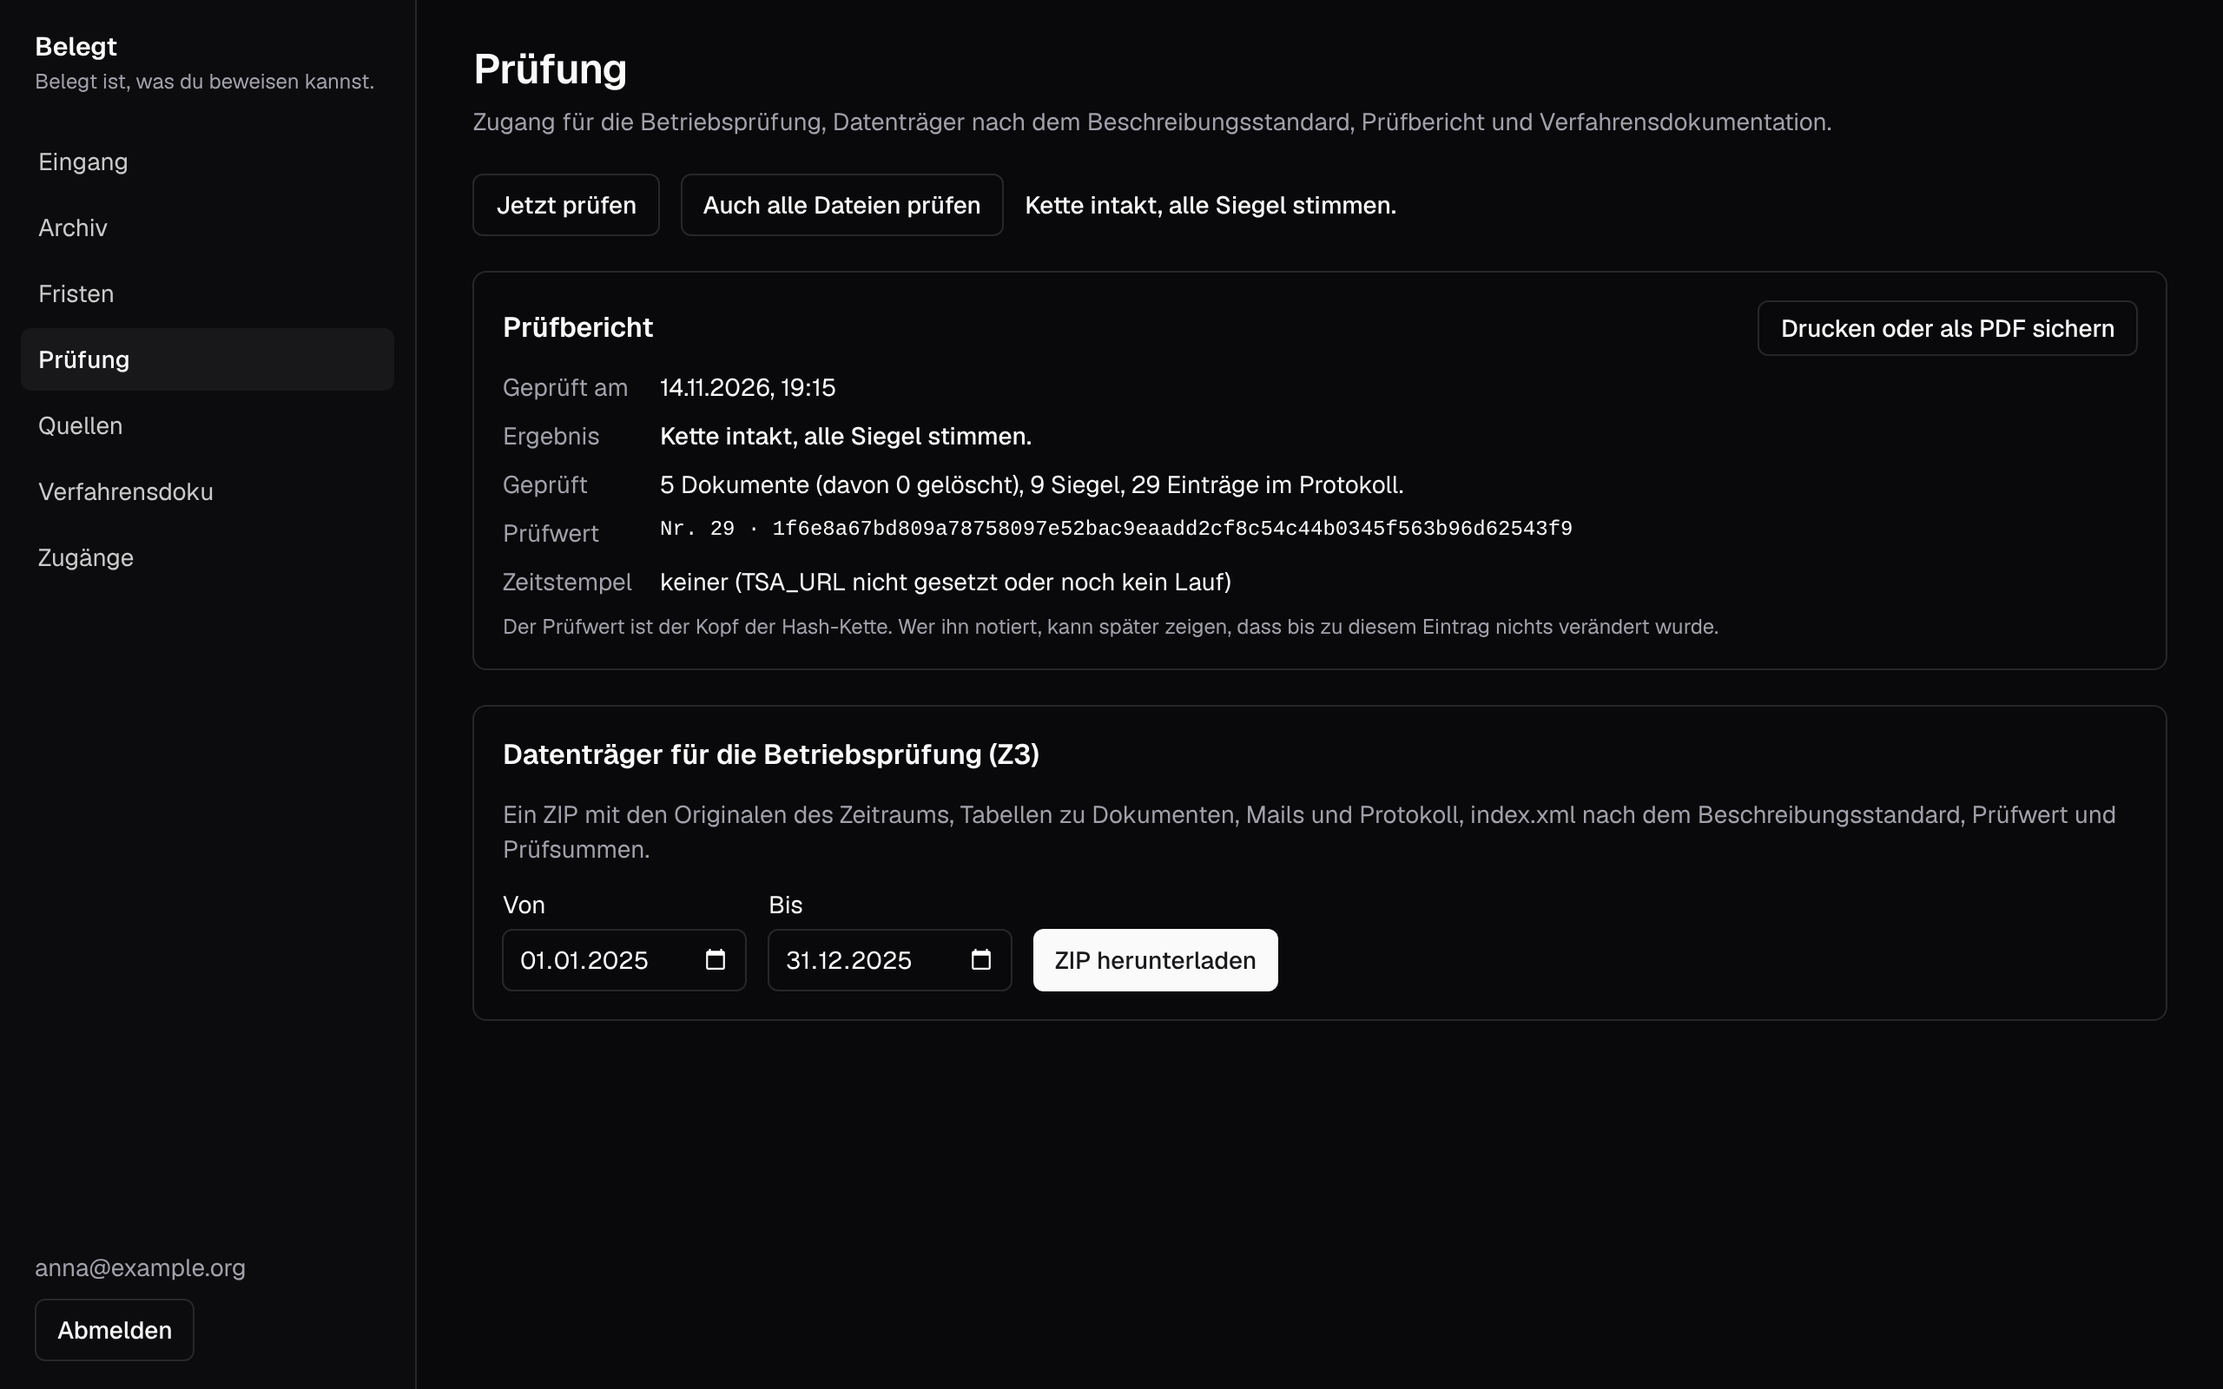
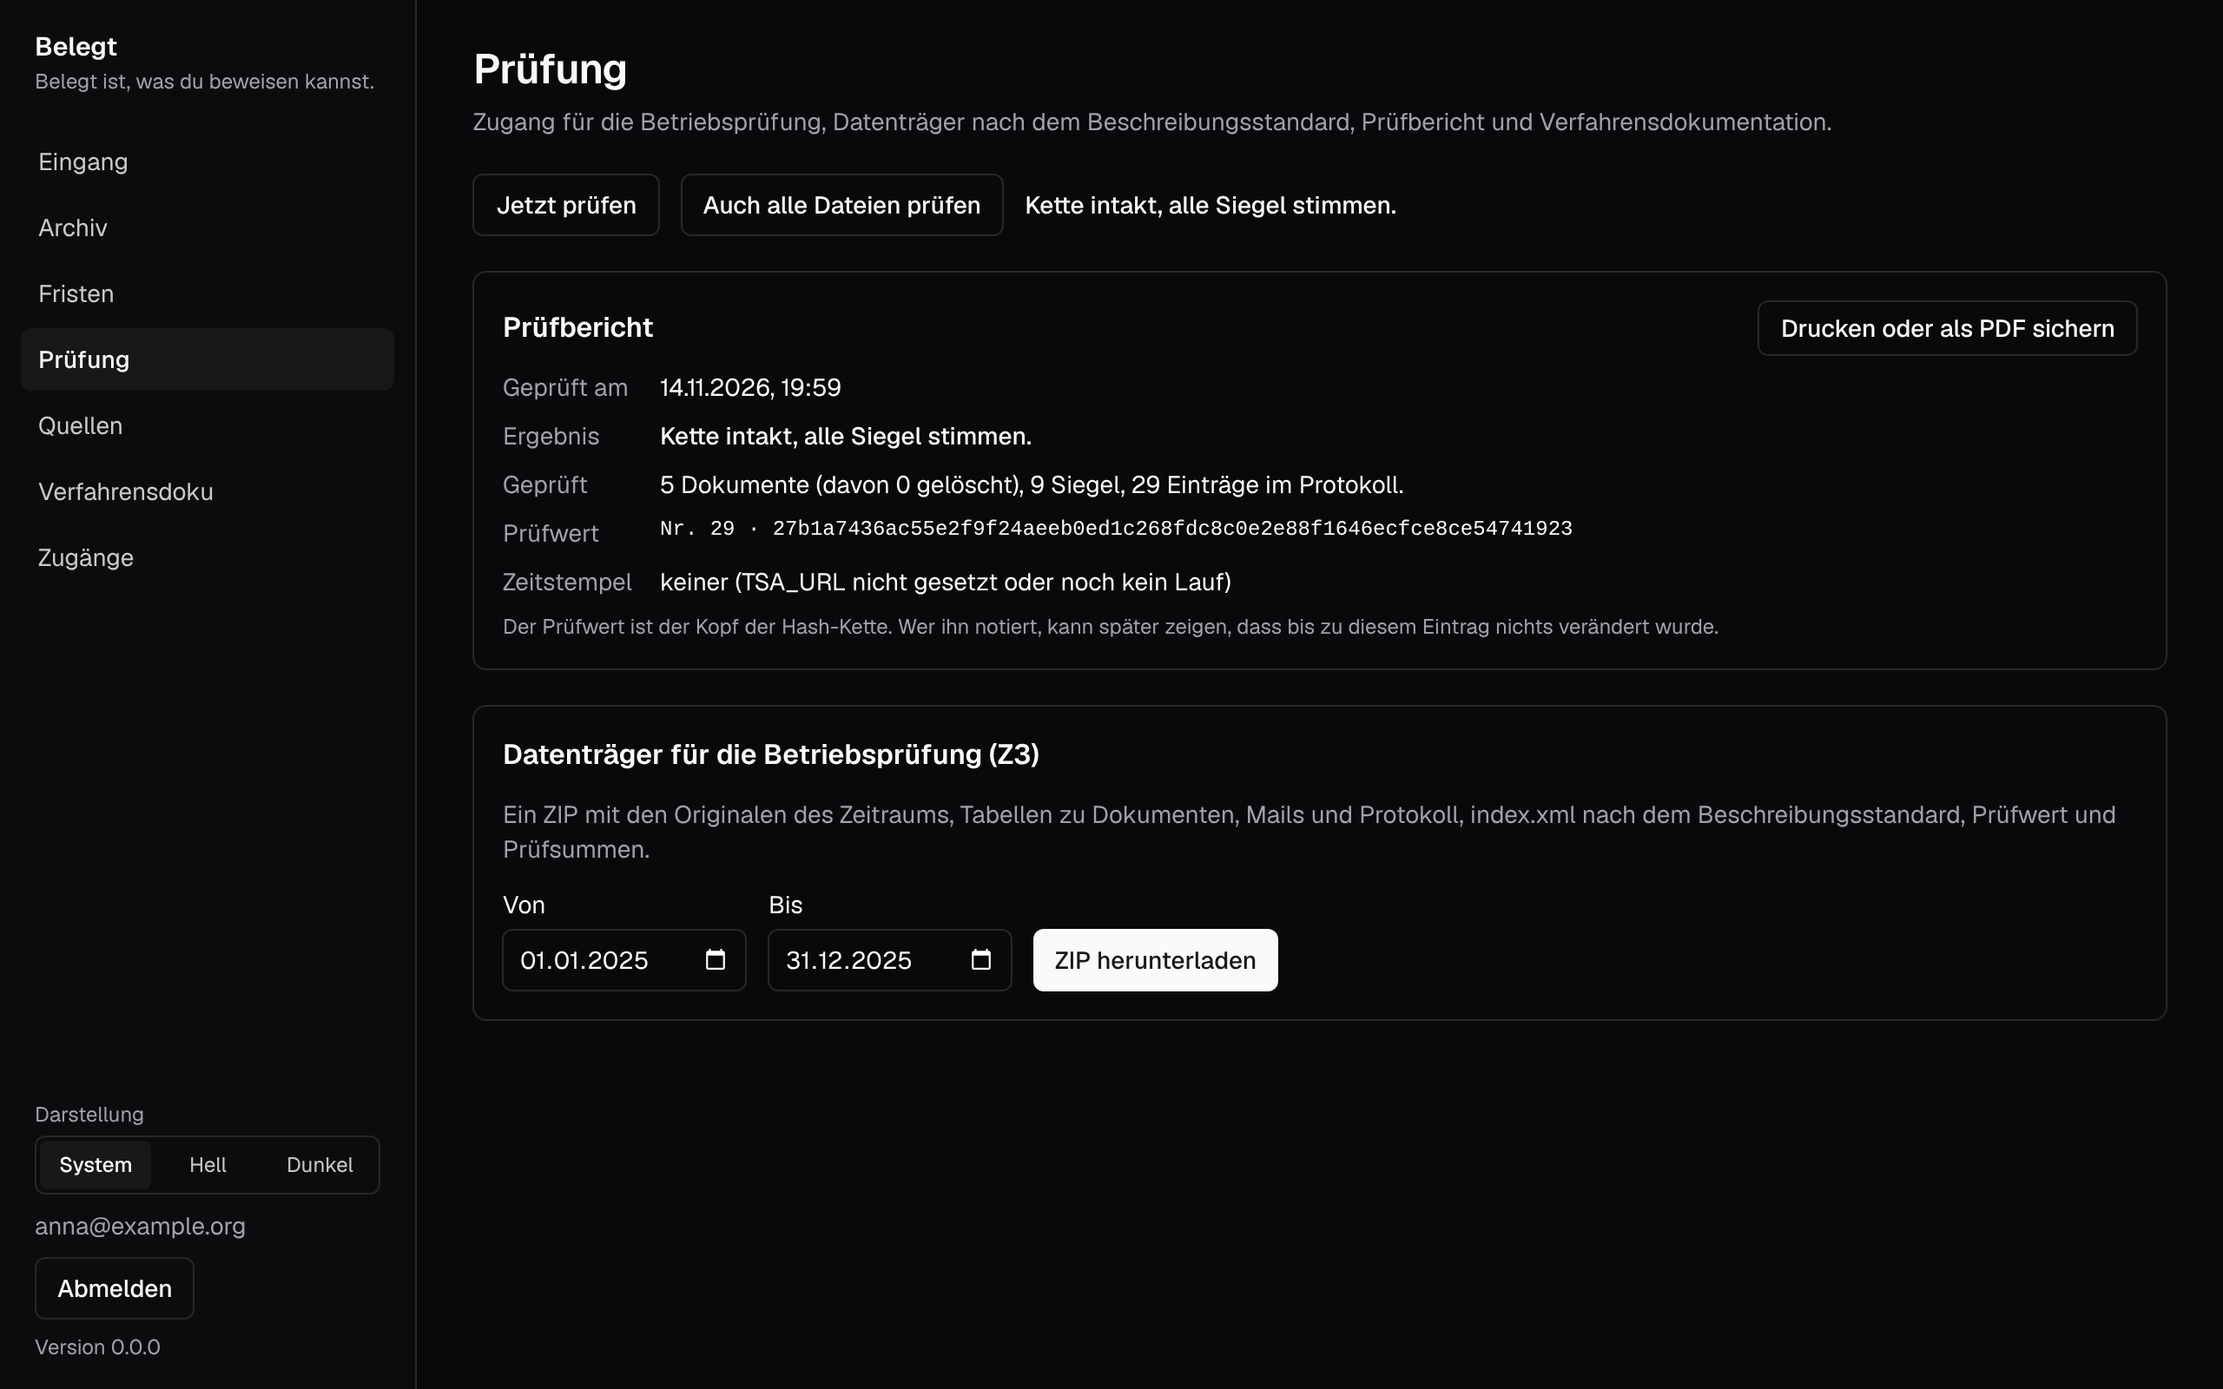
Darstellung umschaltbar (System, Hell, Dunkel) und Version in der Navigation
Unten in der Navigation wählt man jetzt hell, dunkel oder nach dem Gerät
(Vorgabe wie bisher: System). Die Wahl liegt nur im Browser und wird per
Inline-Skript vor dem ersten Zeichnen gesetzt, damit nichts aufblitzt.
Eingebettet entscheidet weiter die einbettende Seite; der Schalter fehlt
dort. Die Version kommt aus /api/status und steht unter „Abmelden“.
Screenshots für README und Doku neu aufgenommen.

Claude-Session: https://claude.ai/code/session_01Y3rdfYz2SKH9xfBUAJSLKS

diff --git a/src/lib/darstellung.ts b/src/lib/darstellung.ts
@@ -1,0 +1,50 @@
+/**
+ * Hell, dunkel oder nach dem Gerät; die Wahl liegt nur im Browser (localStorage), nicht auf dem Server.
+ * „System“ setzt kein data-theme, dann entscheidet prefers-color-scheme in styles.css, auch wenn sich das Gerät später
+ * umstellt. Eine einbettende Seite setzt data-theme selbst (EmbedBridge) und hat damit das letzte Wort.
+ */
+export const MODI = ["system", "hell", "dunkel"] as const;
+export type Modus = (typeof MODI)[number];
+
+export const MODUS_KEY = "belegt.darstellung";
+export const MODUS_VORGABE: Modus = "system";
+
+const THEME: Record<Modus, "light" | "dark" | null> = { system: null, hell: "light", dunkel: "dark" };
+
+/** Läuft als Inline-Skript im <head> (vite.config.ts), bevor die Seite gezeichnet wird, damit nichts aufblitzt */
+export const DARSTELLUNG_SKRIPT = `(function(){try{var t=${JSON.stringify(THEME)}[localStorage.getItem(${JSON.stringify(MODUS_KEY)})];if(t)document.documentElement.dataset.theme=t}catch(e){}})();`;
+
+export function modusLesen(speicher: Pick<Storage, "getItem"> | undefined = globalThis.localStorage): Modus {
+  try {
+    const wert = speicher?.getItem(MODUS_KEY);
+    return MODI.find((m) => m === wert) ?? MODUS_VORGABE;
+  } catch {
+    return MODUS_VORGABE;
+  }
+}
+
+const zuhoerer = new Set<() => void>();
+
+/** Für useSyncExternalStore */
+export function modusAbonnieren(f: () => void) {
+  zuhoerer.add(f);
+  return () => {
+    zuhoerer.delete(f);
+  };
+}
+
+export function modusAnwenden(modus: Modus, wurzel: HTMLElement = document.documentElement) {
+  const theme = THEME[modus];
+  if (theme) wurzel.dataset.theme = theme;
+  else delete wurzel.dataset.theme;
+}
+
+export function modusSpeichern(modus: Modus, speicher: Pick<Storage, "setItem"> | undefined = globalThis.localStorage) {
+  try {
+    speicher?.setItem(MODUS_KEY, modus);
+  } catch {
+    // Privater Modus o. Ä.: gilt dann nur bis zum Neuladen
+  }
+  modusAnwenden(modus);
+  for (const f of zuhoerer) f();
+}

diff --git a/src/lib/darstellung.test.ts b/src/lib/darstellung.test.ts
@@ -1,0 +1,49 @@
+import { describe, expect, it } from "vitest";
+import { DARSTELLUNG_SKRIPT, MODUS_KEY, modusAnwenden, modusLesen } from "./darstellung.ts";
+
+const speicher = (wert: string | null) => ({ getItem: (k: string) => (k === MODUS_KEY ? wert : null) });
+
+describe("Darstellung", () => {
+  it("liest die Wahl und fällt sonst auf System zurück", () => {
+    expect(modusLesen(speicher("dunkel"))).toBe("dunkel");
+    expect(modusLesen(speicher("hell"))).toBe("hell");
+    expect(modusLesen(speicher(null))).toBe("system");
+    expect(modusLesen(speicher("lila"))).toBe("system");
+    expect(
+      modusLesen({
+        getItem: () => {
+          throw new Error("gesperrt");
+        },
+      }),
+    ).toBe("system");
+  });
+
+  it("setzt data-theme für hell und dunkel und nimmt es für System weg", () => {
+    const wurzel = { dataset: {} as DOMStringMap } as HTMLElement;
+    modusAnwenden("dunkel", wurzel);
+    expect(wurzel.dataset.theme).toBe("dark");
+    modusAnwenden("hell", wurzel);
+    expect(wurzel.dataset.theme).toBe("light");
+    modusAnwenden("system", wurzel);
+    expect(wurzel.dataset.theme).toBeUndefined();
+  });
+
+  it("wendet im Inline-Skript dieselbe Wahl an, bevor die Seite gezeichnet wird", () => {
+    const lauf = (wert: string | null, gesperrt = false) => {
+      const documentElement = { dataset: {} as DOMStringMap };
+      const localStorage = {
+        getItem: (k: string) => {
+          if (gesperrt) throw new Error("gesperrt");
+          return k === MODUS_KEY ? wert : null;
+        },
+      };
+      new Function("document", "localStorage", DARSTELLUNG_SKRIPT)({ documentElement }, localStorage);
+      return documentElement.dataset.theme;
+    };
+    expect(lauf("dunkel")).toBe("dark");
+    expect(lauf("hell")).toBe("light");
+    expect(lauf("system")).toBeUndefined();
+    expect(lauf("<script>")).toBeUndefined();
+    expect(lauf("dunkel", true)).toBeUndefined();
+  });
+});

diff --git a/e2e/start.spec.ts b/e2e/start.spec.ts
@@ -64,3 +64,29 @@ test.describe("auf Englisch", () => {
     await expect(page.locator("html")).toHaveAttribute("lang", "en");
   });
 });
+
+test("die Darstellung lässt sich umschalten, bleibt nach dem Neuladen und zeigt die Version", async ({ page }) => {
+  await page.emulateMedia({ colorScheme: "light" });
+  await page.goto("/");
+  const darstellung = page.getByRole("group", { name: "Darstellung" });
+  await expect(darstellung.getByRole("radio", { name: "System" })).toBeChecked();
+  await expect(page.locator("html")).not.toHaveAttribute("data-theme");
+  await expect(page.getByText(/^Version \d+\.\d+\.\d+/)).toBeVisible();
+
+  await darstellung.getByText("Dunkel").click();
+  await expect(page.locator("html")).toHaveAttribute("data-theme", "dark");
+  await expect(page.locator("body")).toHaveCSS("color-scheme", "dark");
+  await page.reload();
+  await expect(page.locator("html")).toHaveAttribute("data-theme", "dark");
+  await expect(page.getByRole("group", { name: "Darstellung" }).getByRole("radio", { name: "Dunkel" })).toBeChecked();
+  const dunkel = await new AxeBuilder({ page }).withTags(["wcag2a", "wcag2aa"]).analyze();
+  expect(dunkel.violations).toEqual([]);
+
+  // Hell gilt auch, wenn das Gerät dunkel ist
+  await page.emulateMedia({ colorScheme: "dark" });
+  await page.getByRole("group", { name: "Darstellung" }).getByText("Hell").click();
+  await expect(page.locator("body")).toHaveCSS("color-scheme", "light");
+  await page.getByRole("group", { name: "Darstellung" }).getByText("System").click();
+  await expect(page.locator("html")).not.toHaveAttribute("data-theme");
+  await expect(page.locator("body")).toHaveCSS("color-scheme", "dark");
+});

diff --git a/src/components/Darstellung.tsx b/src/components/Darstellung.tsx
@@ -1,0 +1,41 @@
+import { useSyncExternalStore } from "react";
+import { MODI, MODUS_VORGABE, type Modus, modusAbonnieren, modusLesen, modusSpeichern } from "../lib/darstellung.ts";
+import { m } from "../paraglide/messages.js";
+
+const NAMEN: Record<Modus, () => string> = {
+  system: () => m.theme_system(),
+  hell: () => m.theme_light(),
+  dunkel: () => m.theme_dark(),
+};
+
+/** Hell, dunkel oder nach dem Gerät; drei Optionsfelder, als ein Schalter gezeichnet */
+export function Darstellung() {
+  const modus = useSyncExternalStore(
+    modusAbonnieren,
+    () => modusLesen(),
+    () => MODUS_VORGABE,
+  );
+  return (
+    <fieldset className="flex flex-col gap-1">
+      <legend className="mb-1 text-muted text-xs">{m.theme_label()}</legend>
+      <div className="flex rounded-md border border-border p-0.5">
+        {MODI.map((mo) => (
+          <label
+            key={mo}
+            className="flex h-7 flex-1 cursor-pointer items-center justify-center rounded px-2 text-fg/80 text-xs has-checked:bg-subtle has-checked:font-medium has-checked:text-fg has-focus-visible:outline-2 has-focus-visible:outline-primary"
+          >
+            <input
+              type="radio"
+              name="darstellung"
+              value={mo}
+              checked={modus === mo}
+              onChange={() => modusSpeichern(mo)}
+              className="sr-only"
+            />
+            {NAMEN[mo]()}
+          </label>
+        ))}
+      </div>
+    </fieldset>
+  );
+}

diff --git a/src/components/Sidebar.tsx b/src/components/Sidebar.tsx
@@ -2,6 +2,7 @@ import { useQuery, useQueryClient } from "@tanstack/react-query";
 import { Link, useNavigate } from "@tanstack/react-router";
 import { api, type Ich } from "../lib/api.ts";
 import { m } from "../paraglide/messages.js";
+import { Darstellung } from "./Darstellung.tsx";
 
 const ITEMS = [
   { to: "/", label: () => m.nav_inbox() },
@@ -19,11 +20,13 @@ export function Sidebar({
   ich,
   eingebettet = false,
   oidc = null,
+  version,
 }: {
   ich: Ich;
   /** Im Frame einer anderen Seite: ohne Namen und Konto, die zeigt die einbettende Seite */
   eingebettet?: boolean;
   oidc?: { name: string } | null;
+  version?: string;
 }) {
   const konten = useQuery({ queryKey: ["konten"], queryFn: api.konten, enabled: !!oidc && !eingebettet });
   const verbunden = konten.data?.some((k) => k.providerId === "oidc");
@@ -59,6 +62,7 @@ export function Sidebar({
       </nav>
       {!eingebettet && (
         <div className="mt-auto flex flex-col gap-2 px-2 text-sm">
+          <Darstellung />
           <span className="truncate text-muted">{ich.email}</span>
           {oidc && konten.data && !verbunden && (
             <button
@@ -76,6 +80,7 @@ export function Sidebar({
           >
             {m.logout()}
           </button>
+          {version && <span className="text-muted text-xs">{m.version({ version })}</span>}
         </div>
       )}
     </aside>

diff --git a/server/app.ts b/server/app.ts
@@ -1,7 +1,7 @@
 import { Hono } from "hono";
 import { eingerichtet } from "./db/status.ts";
 import { dokumenteRouten } from "./http/dokumente.ts";
-import type { App, AppUmgebung } from "./http/gemeinsam.ts";
+import { type App, type AppUmgebung, VERSION } from "./http/gemeinsam.ts";
 import { mailRouten } from "./http/mail.ts";
 import { oauthRouten } from "./http/oauth.ts";
 import { openapi } from "./http/openapi.ts";
@@ -31,12 +31,13 @@ export function createApp(umgebung?: AppUmgebung) {
     /** Öffentlich: Beschreibung der Schnittstelle für Programme */
     app.get("/api/openapi.json", (c) => c.json(openapi));
 
-    /** Öffentlich: ob es schon einen Inhaber gibt (Anmelden oder Einrichten) */
+    /** Öffentlich: ob es schon einen Inhaber gibt (Anmelden oder Einrichten), dazu die Version */
     app.get("/api/status", async (c) =>
       c.json({
         eingerichtet: await eingerichtet(umgebung.db),
         oidc: umgebung.oidcName ? { name: umgebung.oidcName } : null,
         embedOrigin: umgebung.embedOrigin ?? null,
+        version: VERSION,
       }),
     );
 

diff --git a/vite.config.ts b/vite.config.ts
@@ -2,6 +2,7 @@ import { paraglideVitePlugin } from "@inlang/paraglide-js";
 import tailwindcss from "@tailwindcss/vite";
 import react from "@vitejs/plugin-react";
 import { defineConfig } from "vite";
+import { DARSTELLUNG_SKRIPT } from "./src/lib/darstellung.ts";
 
 /** Der Server von Belegt; im Betrieb liefert er die App selbst aus */
 const server = process.env.BELEGT_SERVER ?? "http://127.0.0.1:3000";
@@ -16,6 +17,11 @@ export default defineConfig({
     }),
     tailwindcss(),
     react(),
+    // Hell oder dunkel aus dem Browser setzen, bevor die Seite gezeichnet wird
+    {
+      name: "belegt-darstellung",
+      transformIndexHtml: () => [{ tag: "script", children: DARSTELLUNG_SKRIPT, injectTo: "head-prepend" }],
+    },
   ],
   server: { proxy: { "/api": { target: server }, "/healthz": { target: server } } },
 });

diff --git a/server/auth.test.ts b/server/auth.test.ts
@@ -1,4 +1,5 @@
 import { afterAll, beforeAll, describe, expect, it } from "vitest";
+import { VERSION } from "./http/gemeinsam.ts";
 import { testApp } from "./test-app.ts";
 import { testDatenbankUrl } from "./test-db.ts";
 
@@ -19,6 +20,7 @@ describe.skipIf(!testDatenbankUrl)("Anmeldung gegen Postgres", () => {
       eingerichtet: false,
       oidc: null,
       embedOrigin: null,
+      version: VERSION,
     });
   });
 
@@ -48,6 +50,7 @@ describe.skipIf(!testDatenbankUrl)("Anmeldung gegen Postgres", () => {
       eingerichtet: true,
       oidc: null,
       embedOrigin: null,
+      version: VERSION,
     });
     const zweites = await t.registrieren("mallory@example.org");
     expect(zweites.res.status).toBe(403);

diff --git a/src/lib/api.ts b/src/lib/api.ts
@@ -246,7 +246,9 @@ export const api = {
   einstellungenSpeichern: (e: Einstellungen) => aufruf<Einstellungen>("/api/einstellungen", json(e)),
   verfahrensdoku: () => aufruf<Verfahrensdoku>("/api/verfahrensdoku"),
   status: () =>
-    aufruf<{ eingerichtet: boolean; oidc: { name: string } | null; embedOrigin: string | null }>("/api/status"),
+    aufruf<{ eingerichtet: boolean; oidc: { name: string } | null; embedOrigin: string | null; version: string }>(
+      "/api/status",
+    ),
   /** Anmelden über den OIDC-Anbieter; stumm: prompt=none, ohne Rückfrage beim Anbieter (im Frame) */
   anmeldenMitAnbieter: async (ziel: string, stumm = false) => {
     const { url } = await aufruf<{ url: string }>(

diff --git a/src/components/Shell.tsx b/src/components/Shell.tsx
@@ -31,7 +31,7 @@ export function Shell({ children }: { children: ReactNode }) {
       >
         {m.skip_link()}
       </a>
-      <Sidebar ich={ich.data} eingebettet={imFrame} oidc={status.data?.oidc ?? null} />
+      <Sidebar ich={ich.data} eingebettet={imFrame} oidc={status.data?.oidc ?? null} version={status.data?.version} />
       <main id="inhalt" className="min-w-0 flex-[999_1_560px] px-4 py-6 sm:px-8">
         {children}
       </main>

diff --git a/docs/api.md b/docs/api.md
@@ -23,7 +23,7 @@ Alles andere antwortet `403`, ein widerrufenes oder falsches Token `401`. Im Aud
 | Aufruf | Wirkung |
 | --- | --- |
 | `POST /api/auth/sign-up/email`, `POST /api/auth/sign-in/email`, `POST /api/auth/sign-out` | Einrichten, Anmelden, Abmelden (Better Auth) |
-| `GET /api/status` | `eingerichtet: true`, sobald es einen Inhaber gibt; `oidc` (Name des Anbieters oder `null`) und `embedOrigin`; ohne Sitzung |
+| `GET /api/status` | `eingerichtet: true`, sobald es einen Inhaber gibt; `oidc` (Name des Anbieters oder `null`), `embedOrigin` und `version`; ohne Sitzung |
 | `GET /api/ich` | der angemeldete Zugang mit Rolle |
 | `GET /api/zugaenge`, `POST /api/einladungen` (`rolle`: `steuerberatung`, oder `pruefer` mit `zeitraum`: `{von, bis}`), `POST /api/einladungen/:id/zurueckziehen` | Zugänge und Einladungen, nur für den Inhaber; die Antwort beim Einladen enthält den Link einmal, gespeichert ist nur der Hash des Tokens, gültig 72 Stunden |
 | `GET /api/tokens`, `POST /api/tokens` (`name`, `recht`: `lesen` oder `schreiben`), `POST /api/tokens/:id/widerrufen` | API-Tokens, nur für den Inhaber mit Sitzung; die Antwort beim Anlegen enthält den Klartext einmal (`klartext`) |

diff --git a/README.md b/README.md
@@ -75,7 +75,7 @@ Dokumentenmanagement reicht dafür selten: Dateien lassen sich ändern, und niem
 | 📘 [Verfahrensdokumentation](https://firsttris.github.io/belegt/verfahrensdoku.html) | Aus dem tatsächlichen Stand erzeugt, mit deinen Angaben und den Lücken, die noch fehlen |
 | 🔌 [Schnittstellen](https://firsttris.github.io/belegt/schnittstelle.html) | REST-API mit OpenAPI, API-Tokens, signierte Webhooks, MCP für Claude und andere Assistenten |
 | 🔐 [Anmeldung](https://firsttris.github.io/belegt/einbetten.html) | Konten nur per Einladung, Rollen Inhaber, Steuerberatung und Prüfer, OpenID Connect, Einbetten in ein Portal |
-| 🌍 Sprachen | Oberfläche auf Deutsch und Englisch, hell und dunkel, per Tastatur bedienbar und gegen WCAG 2.2 AA geprüft |
+| 🌍 Sprachen | Oberfläche auf Deutsch und Englisch, hell, dunkel oder nach dem Gerät, per Tastatur bedienbar und gegen WCAG 2.2 AA geprüft |
 
 ## Screenshots
 
